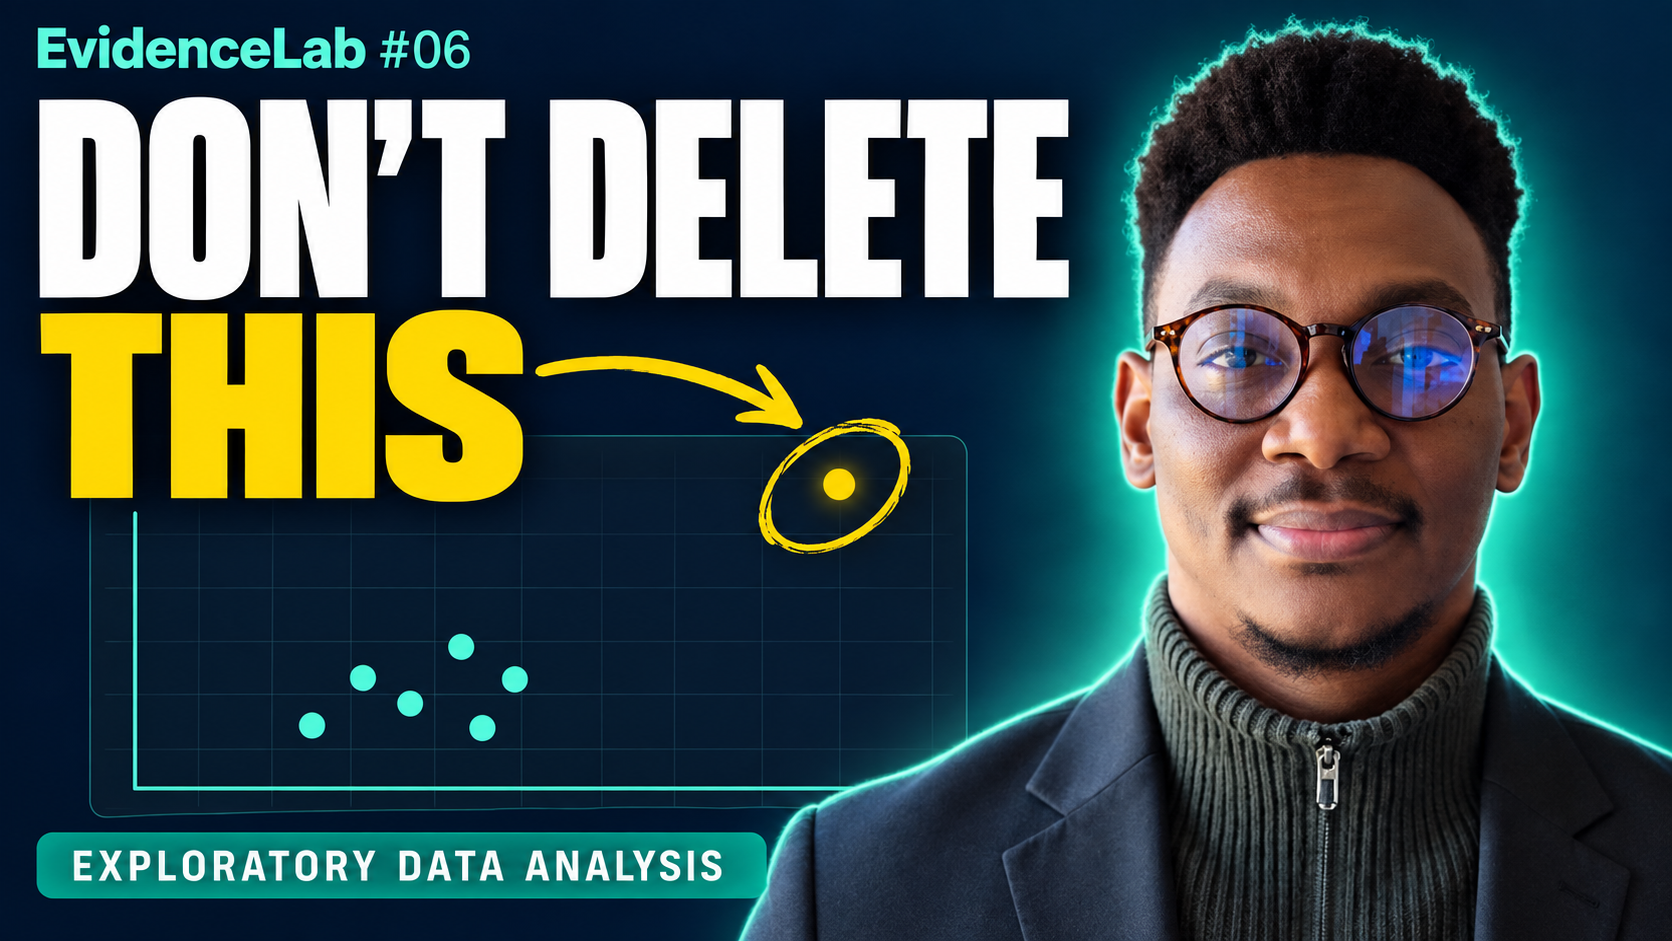
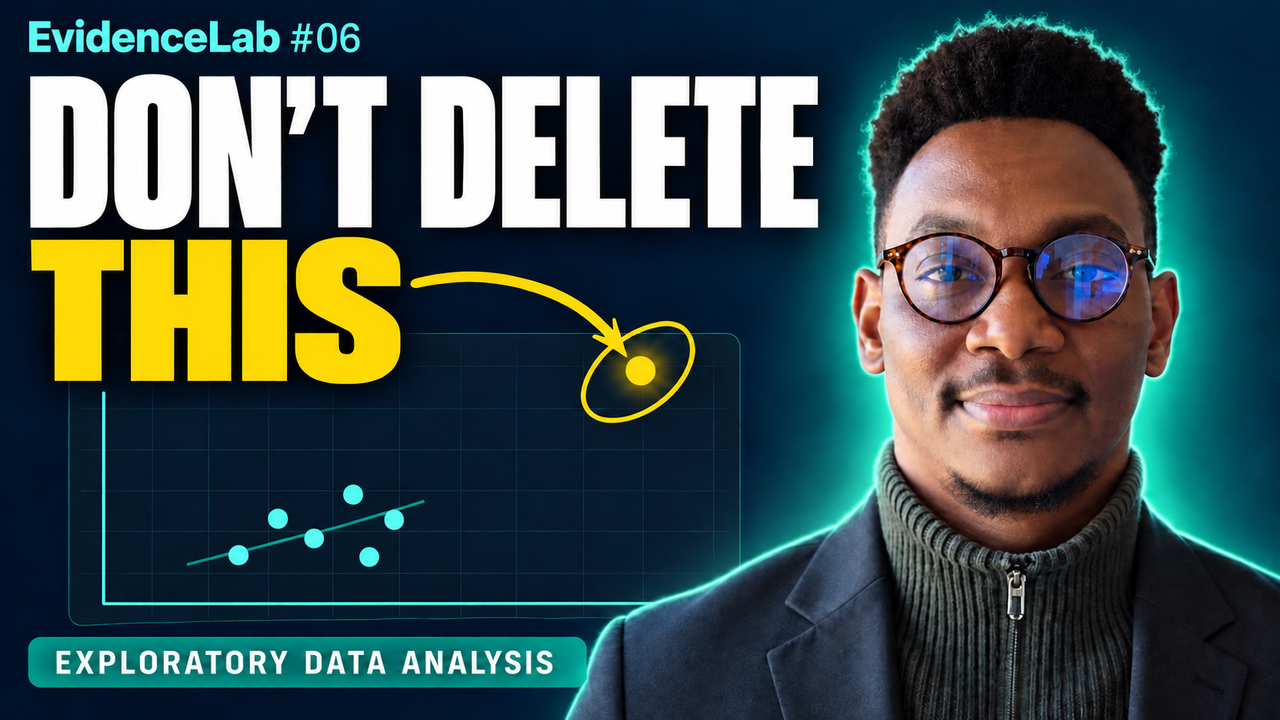
Polish existing Lesson 06 anomaly thumbnail and mobile exports

diff --git a/lessons/06-exploratory-data-analysis/QA/Thumbnail_Refinement.md b/lessons/06-exploratory-data-analysis/QA/Thumbnail_Refinement.md
@@ -1,0 +1,9 @@
+# Existing thumbnail refinement — 7 October 2026
+
+Edited the approved DON’T DELETE THIS thumbnail directly with built-in image_gen. Preserved its layout, portrait composition/expression, navy/teal identity, exact headline, isolated yellow point, scatter concept, EvidenceLab #06 and EXPLORATORY DATA ANALYSIS pill. Refined the yellow ellipse and arrow, enlarged the anomaly, brightened the teal cluster and added a subtle illustrative trend line. No numerical or model claim is represented by this conceptual chart.
+
+Reviewed portrait identity, natural expression and texture, text accuracy, safe margins, contrast and visual hierarchy. The headline, yellow anomaly, face and topic label remain readable at 384×216 and 256×144 (20% of the exported master and delivery dimensions). At 120px sidebar size, the main headline, face and anomaly remain recognizable; the full topic label is naturally small. This is a visual readability check, not measured click-through performance.
+
+YouTube exports: exact 16:9, 1280×720, RGB PNG and JPG; PNG 1,019,893 bytes, JPG 307,409 bytes. The 1920×1080 local master is a rescaled export from the native 1672×941 generation, not additional captured detail. Previous thumbnail retained locally in Review/Thumbnail_Refined/Thumbnail_Before_Refinement.png and in Git history. Native selected render, master, mobile checks and full prompt set are retained locally. No Higgsfield generation credits or YouTube upload.
+
+Current GitHub preview uses assets/eda_thumbnail_dont_delete.png. Production prompts: Production/Thumbnail_Refinement_Prompts.md. Built-in editing was used; no fallback API/CLI image-generation mode.

diff --git a/README.md b/README.md
@@ -29,7 +29,7 @@ Epidemiology | Data Science | AI for Global Health
 
 ![Lesson 06 infographic](lessons/06-exploratory-data-analysis/assets/eda_infographic.png)
 
-![Lesson 06 video preview: The pattern I almost dismissed](lessons/06-exploratory-data-analysis/assets/eda_thumbnail_pattern.png)
+![Lesson 06 video preview: Don’t delete this](lessons/06-exploratory-data-analysis/assets/eda_thumbnail_dont_delete.png)
 
 YouTube publication pending.
 

diff --git a/lessons/06-exploratory-data-analysis/README.md b/lessons/06-exploratory-data-analysis/README.md
@@ -28,6 +28,8 @@ Use a distribution dropdown, outcome-stratified violins, age/BP scatter and prev
 
 ![Highlighted outlier — EvidenceLab #06](assets/eda_thumbnail_dont_delete.png)
 
+[Download thumbnail PNG](assets/eda_thumbnail_dont_delete.png) · [Download thumbnail JPG](assets/eda_thumbnail_dont_delete.jpg)
+
 The explainer is prepared for review; YouTube publication is pending.
 
 ## Lesson infographic
